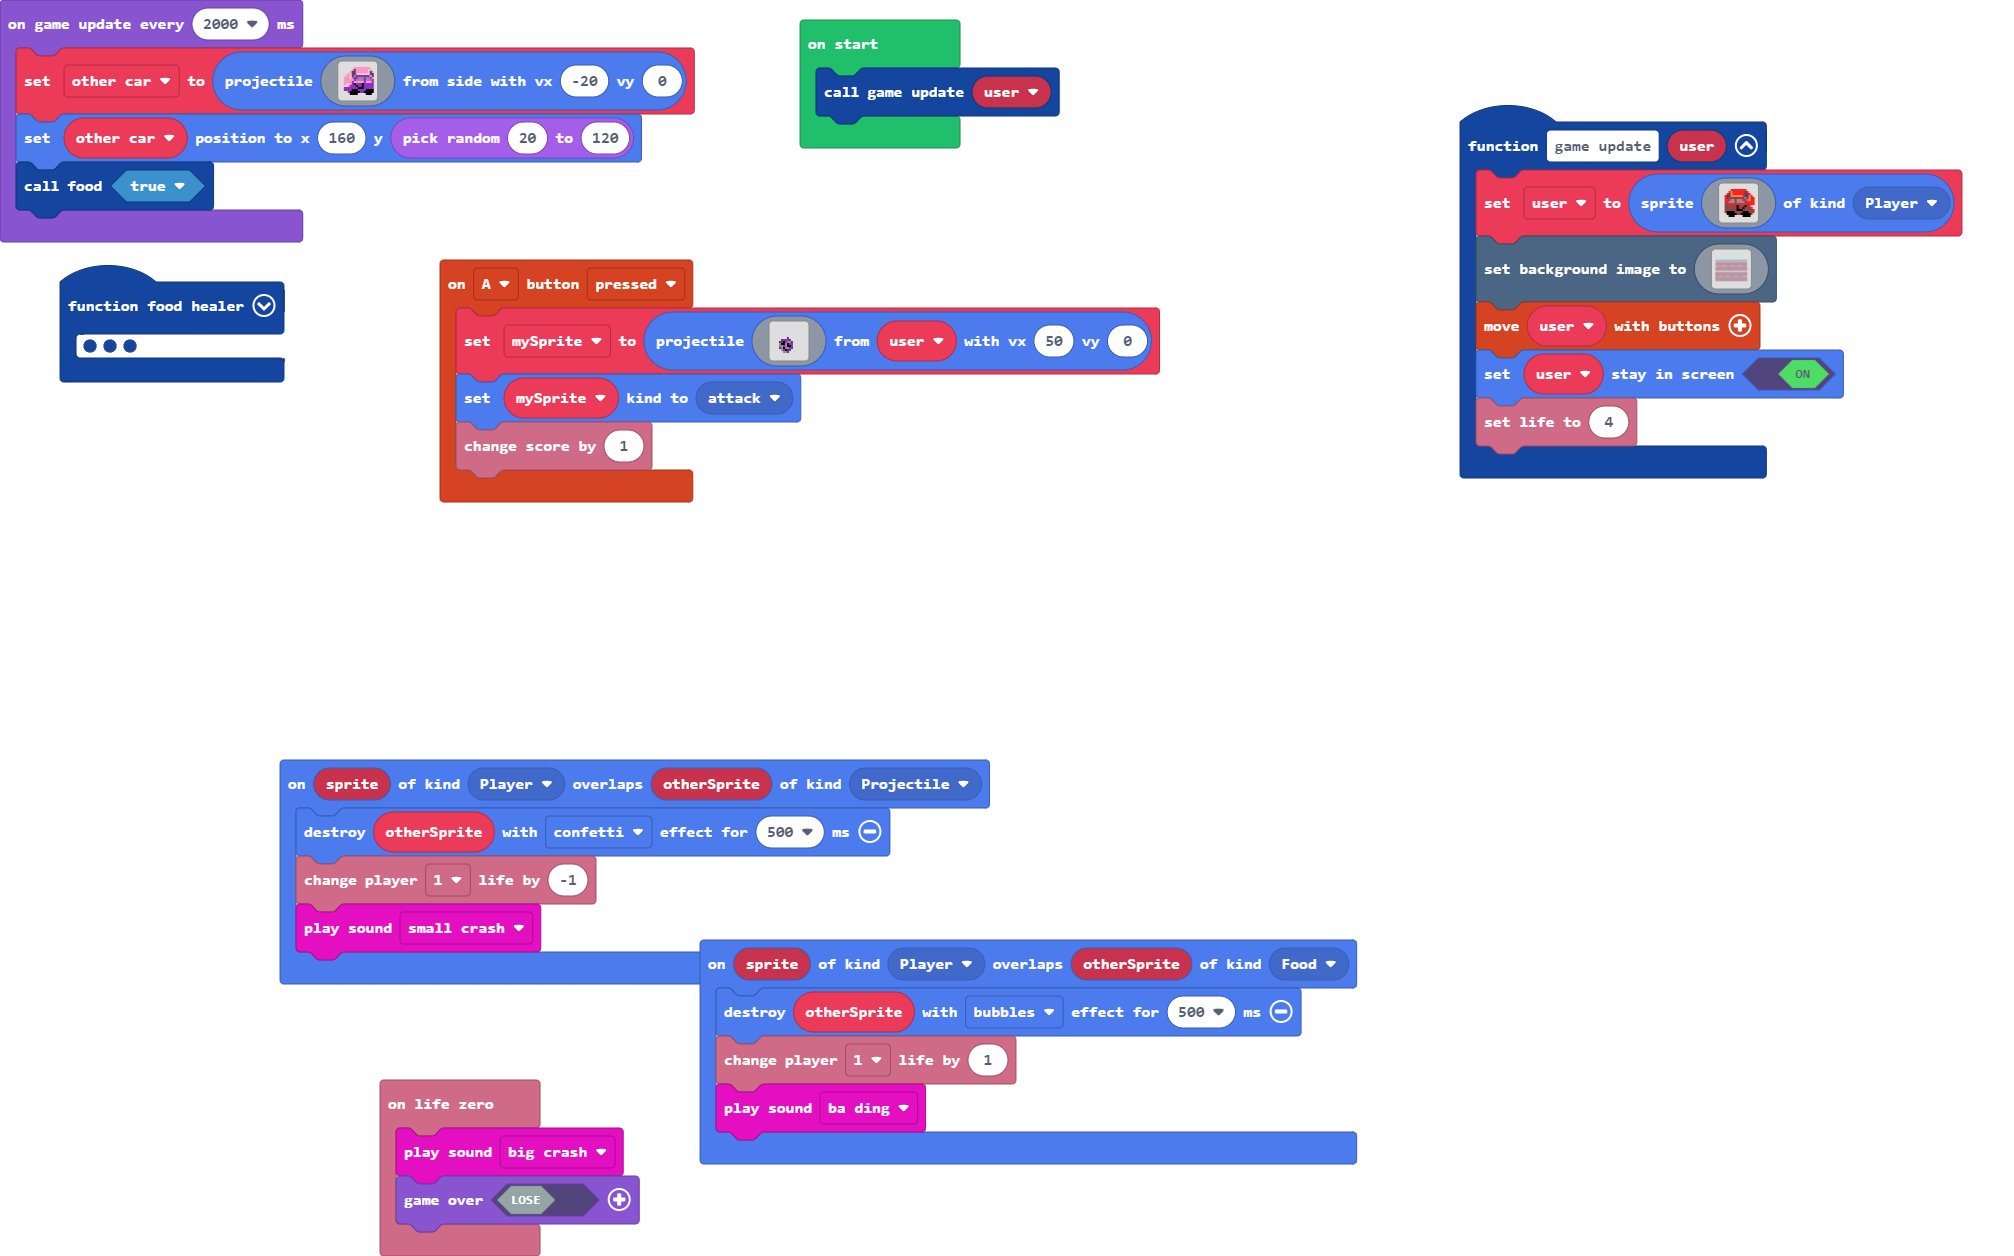
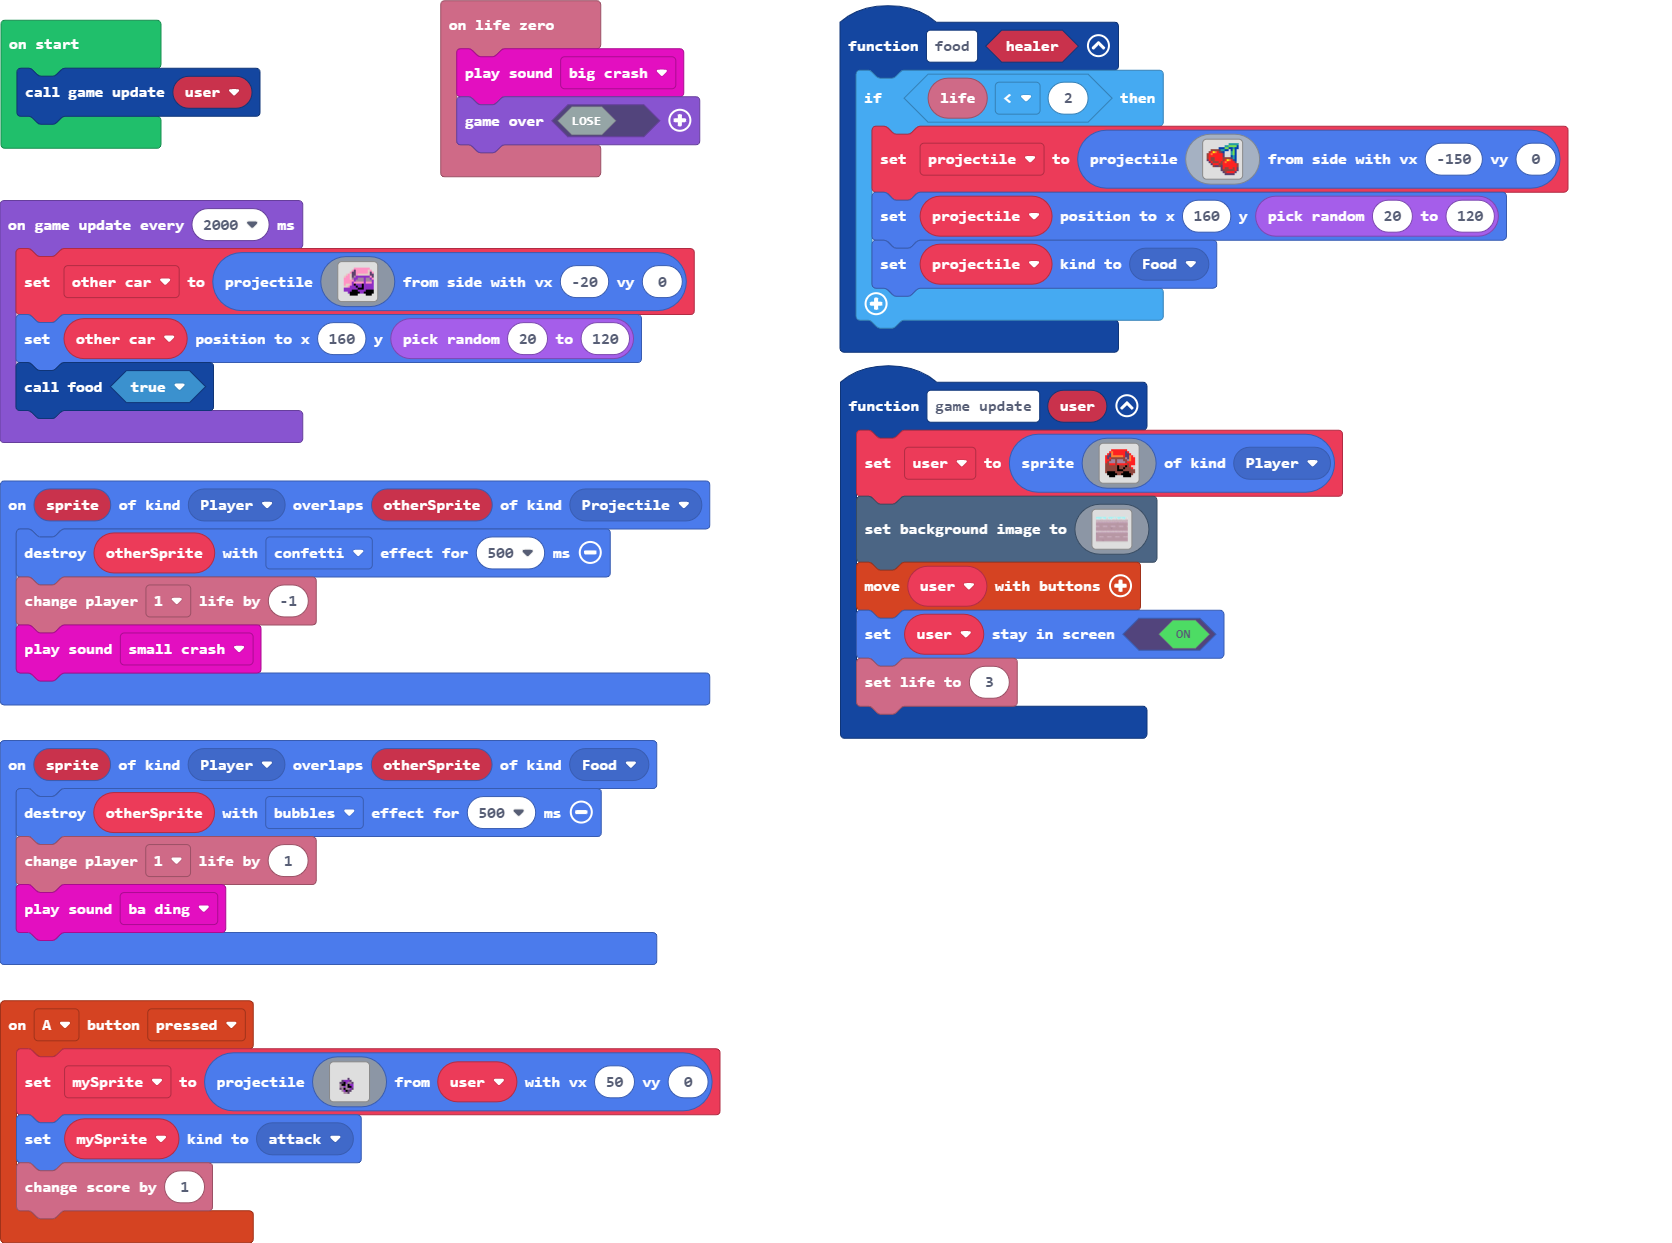
Update main.blocks, main.ts

diff --git a/main.ts b/main.ts
@@ -169,7 +169,7 @@ function game_update (user: Sprite) {
         `)
     controller.moveSprite(user)
     user.setStayInScreen(true)
-    info.setLife(4)
+    info.setLife(3)
 }
 controller.A.onEvent(ControllerButtonEvent.Pressed, function () {
     mySprite = sprites.createProjectileFromSprite(img`
